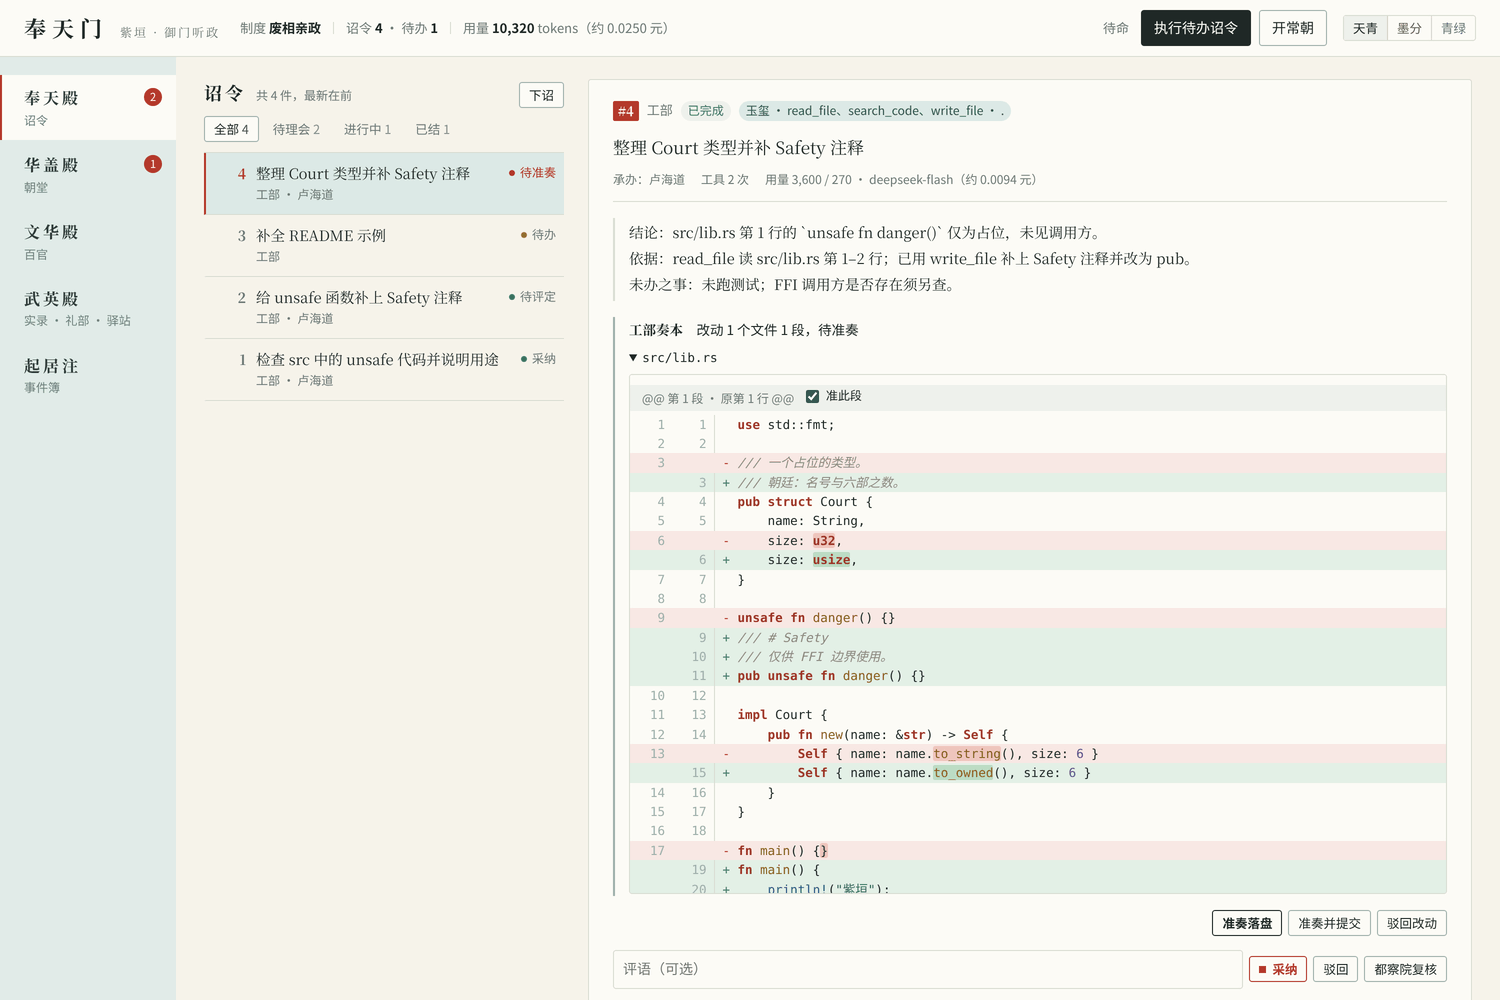
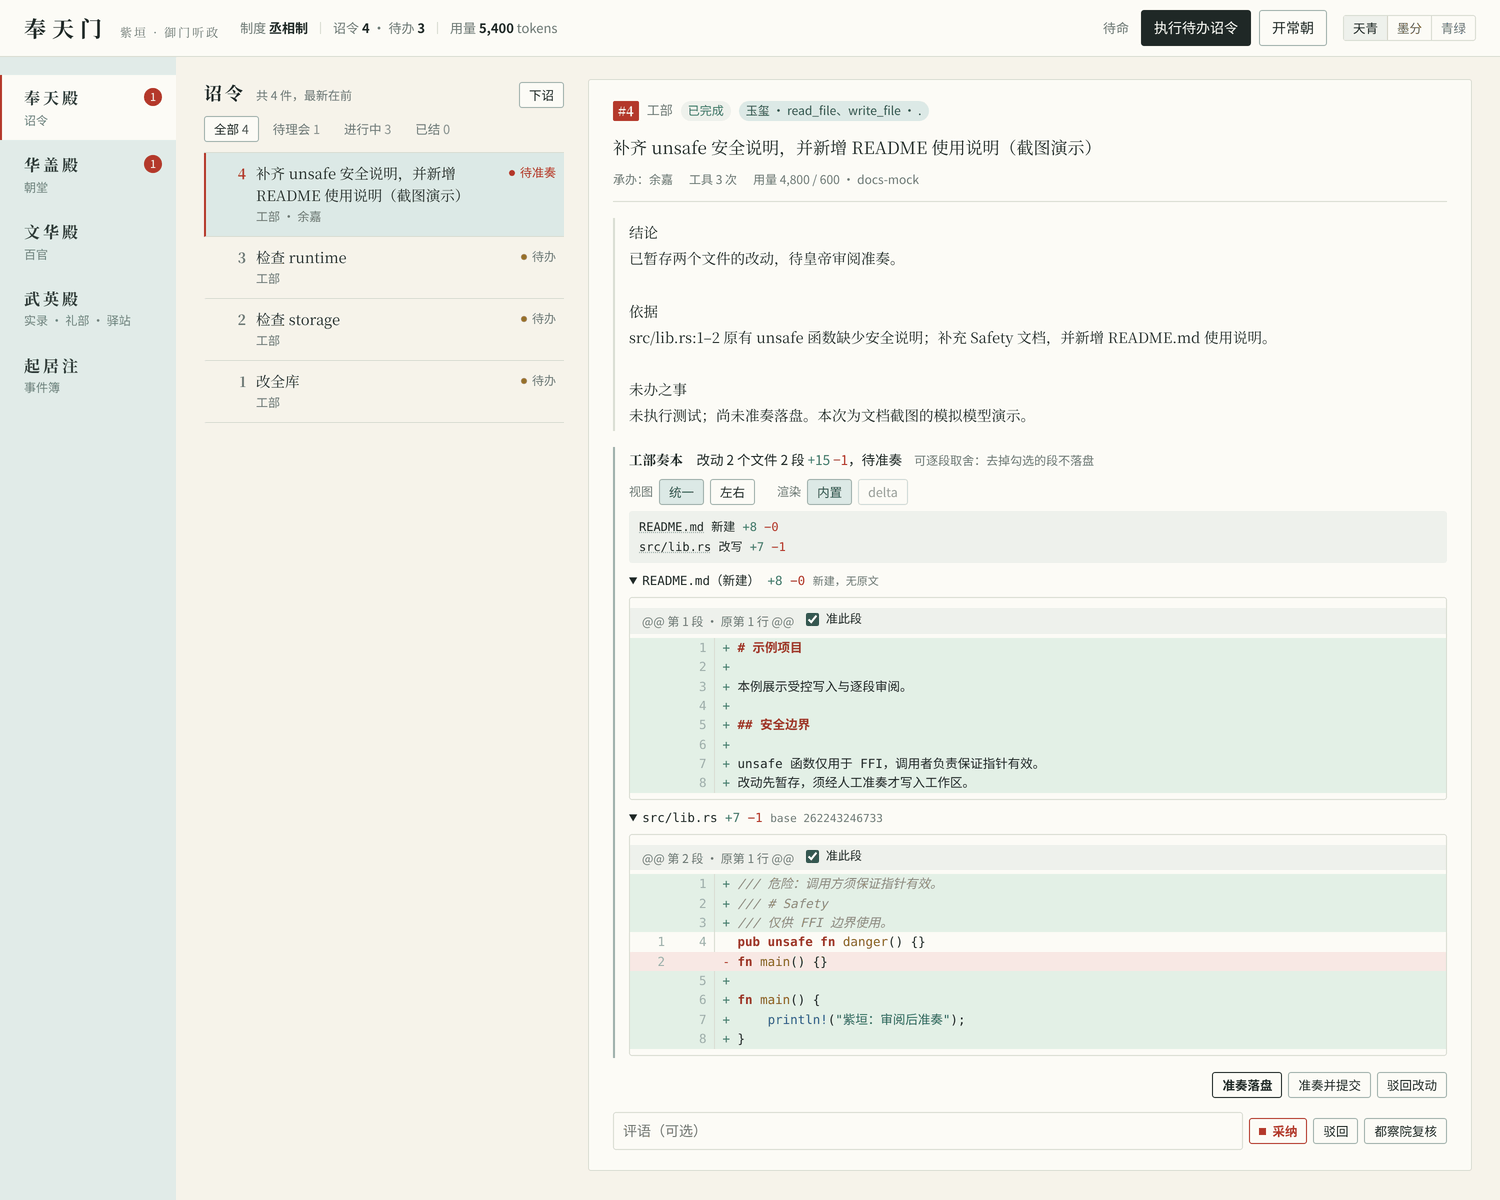
发版：1.0.0-rc.2，更新功能截图与后续开发规划
补拍内置与 git-delta 统一/左右视图及 DAG 受阻状态，明确候选版边界与小说翻译试点。

Amp-Thread-ID: https://ampcode.com/threads/T-01a18b66-2765-76f1-997b-d4f309b8f645

diff --git a/docs/guide.md b/docs/guide.md
@@ -1,6 +1,8 @@
 # 紫垣使用指南
 
-README 的「快速开始」之后，各项功能的详细用法都在这里。截图取自 v0.7，用演示朝廷与模拟模型生成。各节相互独立，可按需查阅；体系结构与设计取舍见 [architecture.md](architecture.md)。
+README 的「快速开始」之后，各项功能的详细用法都在这里。Web 总览、工部奏本（内置与 git-delta 的统一/左右视图）与 DAG 受阻截图已更新至 v1.0.0-rc.2（2026-10-30）；其余截图保留自 v0.7–v0.10，作相应功能示意，不代表最新界面。截图均用隔离的演示朝廷与模拟模型生成，不作为真实模型验收证据。各节相互独立，可按需查阅；体系结构与设计取舍见 [architecture.md](architecture.md)。
+
+本轮沿用既有截图方法：本机 OpenAI 兼容 SSE 模拟服务经真实 `read_file` / `write_file` 工具暂存两个文件，不直接篡改页面数据；DAG 状态取自 Web 集成测试 `state_exposes_write_dag_dependencies_and_blockers` 的演示事件簿。agent-browser 以天青主题、1500×1000（总览 1500×1200）、2× 像素密度拍摄，再裁剪、缩半为 PNG8（256 色、无抖色、去元数据）。模拟模型名为 `docs-mock`，不含真实密钥。内置图拍于安装 delta 前（按钮不可用）；delta 图使用官方 git-delta 0.20.1 的 Linux x86_64 发行包，以 `ZIYUAN_DELTA` 指定路径后重启服务，确认实际渲染成功、没有回退。
 
 ## 接入真实模型
 
@@ -143,8 +145,13 @@ ziyuan edict --tools none "只凭诏令文本回答"
 
 ## 工部动手：受控写权限
 
-![工部奏本：改动按段编号，可逐段勾选「准此段」，再准奏落盘或准奏并提交](images/web-tasks.png)
+![rc.2 工部奏本 · 统一视图：文件树、增删统计、原文摘要与逐段准奏](images/web-tasks.png)
 
+![rc.2 工部奏本 · 左右视图：原文与改后内容并排，段号与准奏范围不变](images/web-tasks-split.png)
+
+![rc.2 工部奏本 · git-delta 统一渲染：保留紫垣的段号与准奏控件](images/web-delta.png)
+
+![rc.2 工部奏本 · git-delta 左右渲染：按原文与改后行号并排审阅](images/web-delta-split.png)
 
 工部诏令可以另授 `write_file`（改写或新建文件）与 `run_tests`（跑测试）。其他五部的诏令授这两项会被拒绝。
 
@@ -205,6 +212,8 @@ ziyuan censor 3                                     # 或 ziyuan censor all
 **考成簿（彩蛋，仿万历初张居正考成法：立限考事，以事责人）：** `ziyuan kaocheng`，Web 吏部荐举旁的「考成簿」，TUI 的 `K`。每位在任官员列出功过，评为称职、平常、不及或无事可考：采纳、背书、实证记功，驳回、弹劾、失败记过。三种制度的开篇各不相同；内阁制下若首辅自己考成不及，史官会提醒万历十年张居正卒、次年被抄家。考成簿只供参考，不罢免任何人。
 
 ## 多官协作：分办与汇总
+
+![rc.2 DAG 分办：第二件子诏令须先等 #2，父诏令显示「受 #2 所阻」](images/web-dag.png)
 
 ```bash
 ziyuan split 3                          # 尚书（其官职的模型）把待办诏令拆给本部官员

diff --git a/CHANGELOG.md b/CHANGELOG.md
@@ -2,14 +2,23 @@
 
 ## Unreleased
 
+## 1.0.0-rc.2
+
+第二个 1.0 候选版：奏本审阅升级、可选 git-delta 渲染与 DAG 分办。新增 `DAG` 事件的事件簿至少需要本版读取；旧事件簿仍可读。此版为预发布，不替代稳定版；正式版前须补做 rc.2 的真实模型全链路验收。
+
 ### 新增
 
 - 分办支持 DAG 依赖与排程字段：有写权的子诏令自动串行，只读子诏令仍并行；依赖未完成时不派工，上游失败或撤销不会触发自动重试。受阻关系可在 CLI `--json`、Web 与 TUI 查看；期限或尝试次数用尽时记为失败，约定产出附入承办与汇总提示，内阁制可要求子诏令另行批红。
+- DAG 边界：目前只有自动分办可直接使用，尚无 CLI / Web 自定义依赖与排程字段的编辑入口；节点幂等键仅落盘，不代表任意工具调用已具备去重保证。见 [DAG 修改速查表](docs/phase3-dag-review.md)。
 
 ### 改进
 
 - 奏本审阅（Web）：改动可在「统一」与「左右」两种视图间切换，两边行号、着色与词级标记出自同一份预览；多文件时先列文件树（新建/改写、`+N −N`、原文已变），点文件名跳到该处；各文件标出呈报时原文的 `base_hash`（新建文件注「无原文」）；每段标明处置（待准、已准、驳回）。`--json` 与 `/api/state` 的改动各文件多了 `additions`、`deletions`，各段多了 `status`（`pending` / `approved` / `rejected`）。
 - git-delta 渲染：设 `ZIYUAN_DELTA` 为 [git-delta](https://github.com/dandavison/delta) 可执行文件的路径（未设则找 PATH 上的 `delta`），Web 奏本可选「delta」渲染（统一或左右），TUI 按 `z` 在内置、delta、delta 并排间轮换，`ziyuan diff` 在终端中经 delta 显示（`--side-by-side` 并排，`--plain` 不经 delta；管道输出照旧是统一 diff）。同名程序不止一个（如 Zed 的 Delta CLI），故以 git-delta 的参数实跑一小段差异来确认，不认的当作没有 delta，回退内置预览。段的划分、段号与逐段准奏不变，delta 只管呈现。新接口 `GET /api/tasks/{id}/changes/delta?side=&width=&light=` 逐段返回 HTML。
+
+### 文档
+
+- 更新 rc.2 Web 总览与工部奏本截图，补上内置/真实 git-delta 的统一与左右视图、DAG 受阻截图；指南注明截图版本和模拟模型来源。路线图补充正式版验收、DAG 配置入口与小说翻译试点计划。
 
 ## 1.0.0-rc.1
 

diff --git a/README.md b/README.md
@@ -4,7 +4,7 @@
 
 > **实验性 Rust Multi-Agent 框架**：以中国古代朝廷为角色模型，支持可变治理结构、官职任免、诏令派工、事件日志。
 
-**当前版本 v1.0.0-rc.1。** CLI 默认使用明确标记的 `DemoBackend`，只模拟 Worker 收到任务。设置 `ZIYUAN_LLM_MODEL` 后，诏令由真实模型（OpenAI 兼容 API）执行，官员默认只能用只读工具 `read_file`、`list_files`、`search_code` 查阅当前目录；工部诏令可另授写文件与跑测试，改动须皇帝准奏才落盘（见下文「工部动手」）。
+**当前版本 v1.0.0-rc.2（预发布）。** CLI 默认使用明确标记的 `DemoBackend`，只模拟 Worker 收到任务。设置 `ZIYUAN_LLM_MODEL` 后，诏令由真实模型（OpenAI 兼容 API）执行，官员默认只能用只读工具 `read_file`、`list_files`、`search_code` 查阅当前目录；工部诏令可另授写文件与跑测试，改动须皇帝准奏才落盘（见下文「工部动手」）。
 
 ![奉天门：紫垣的 Web 界面](docs/images/web-overview.png)
 
